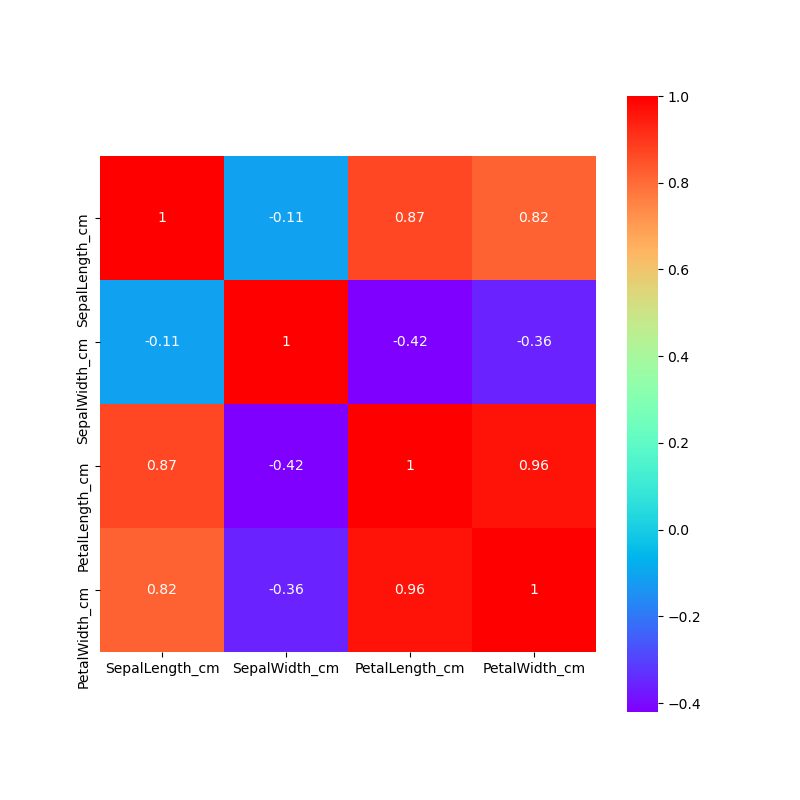
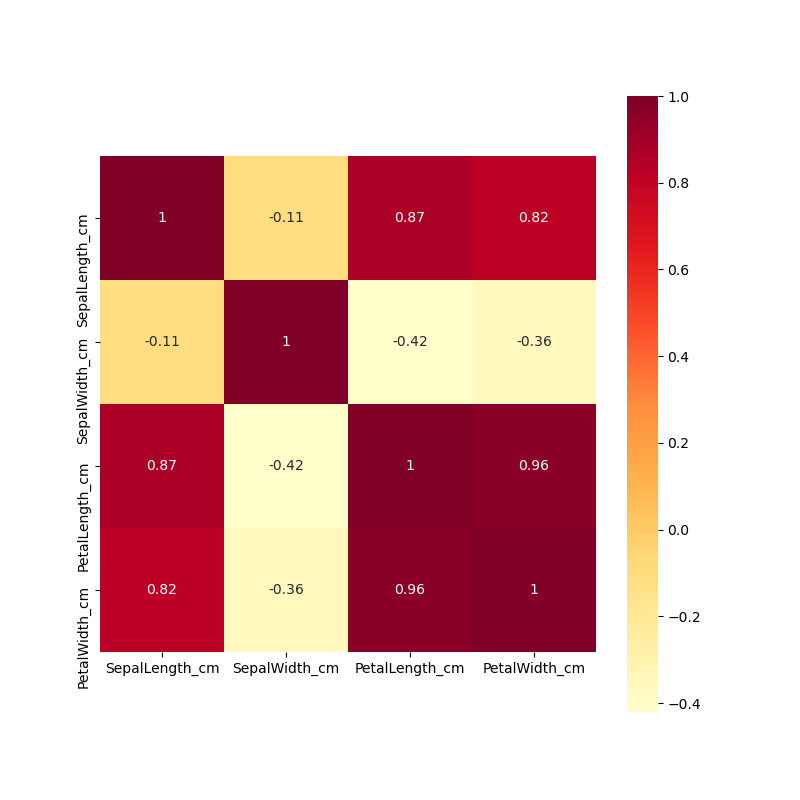
updated colour palette on Heatmap

diff --git a/correlation.py b/correlation.py
@@ -7,5 +7,5 @@ import matplotlib.pyplot as plt
 # information generated from reference 14
 correlationVariablePlot = plt.subplots(figsize=(8,8)) # setting size of output
 # setting attributes of correlation heatmap
-correlationVariablePlot =sns.heatmap(data.corr(), annot=True, cmap='rainbow' ,square=True, cbar = True, linecolor='green', robust= True)  
+correlationVariablePlot =sns.heatmap(data.corr(), annot=True, cmap='YlOrRd' ,square=True, cbar = True, linecolor='green', robust= True) 
 plt.savefig("correlationPlot.png") # save output to 'correlationPlot.png'
